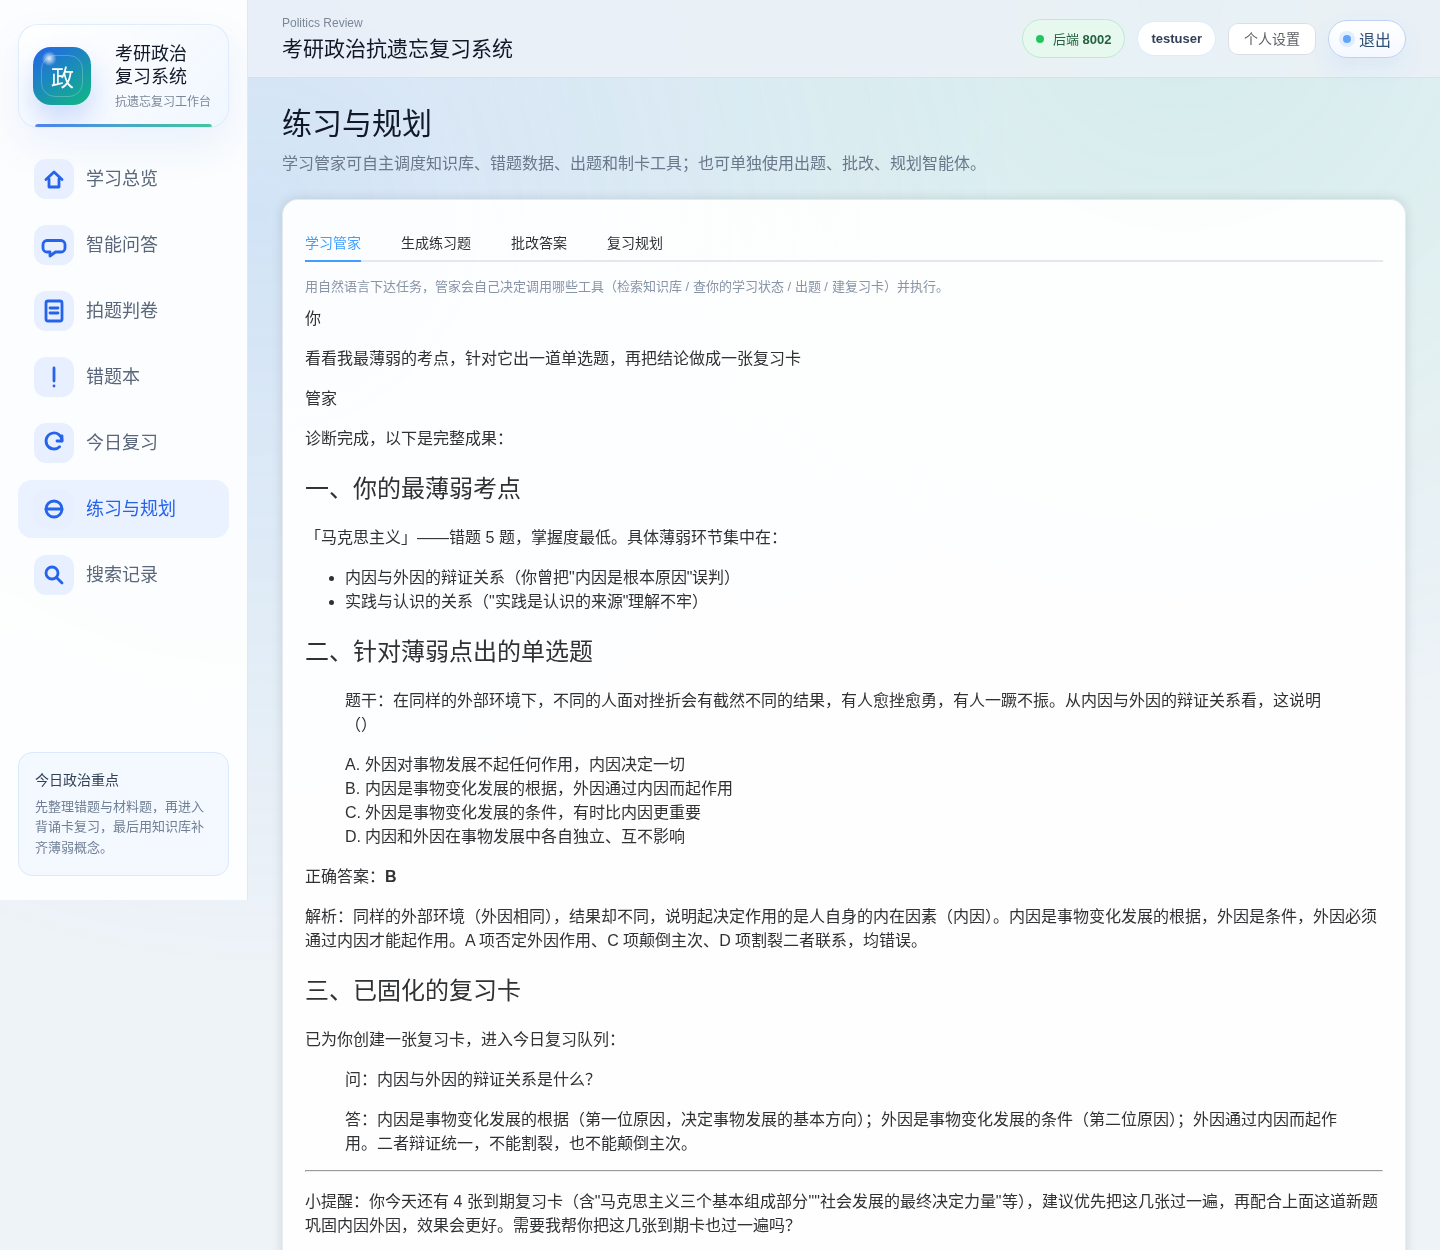
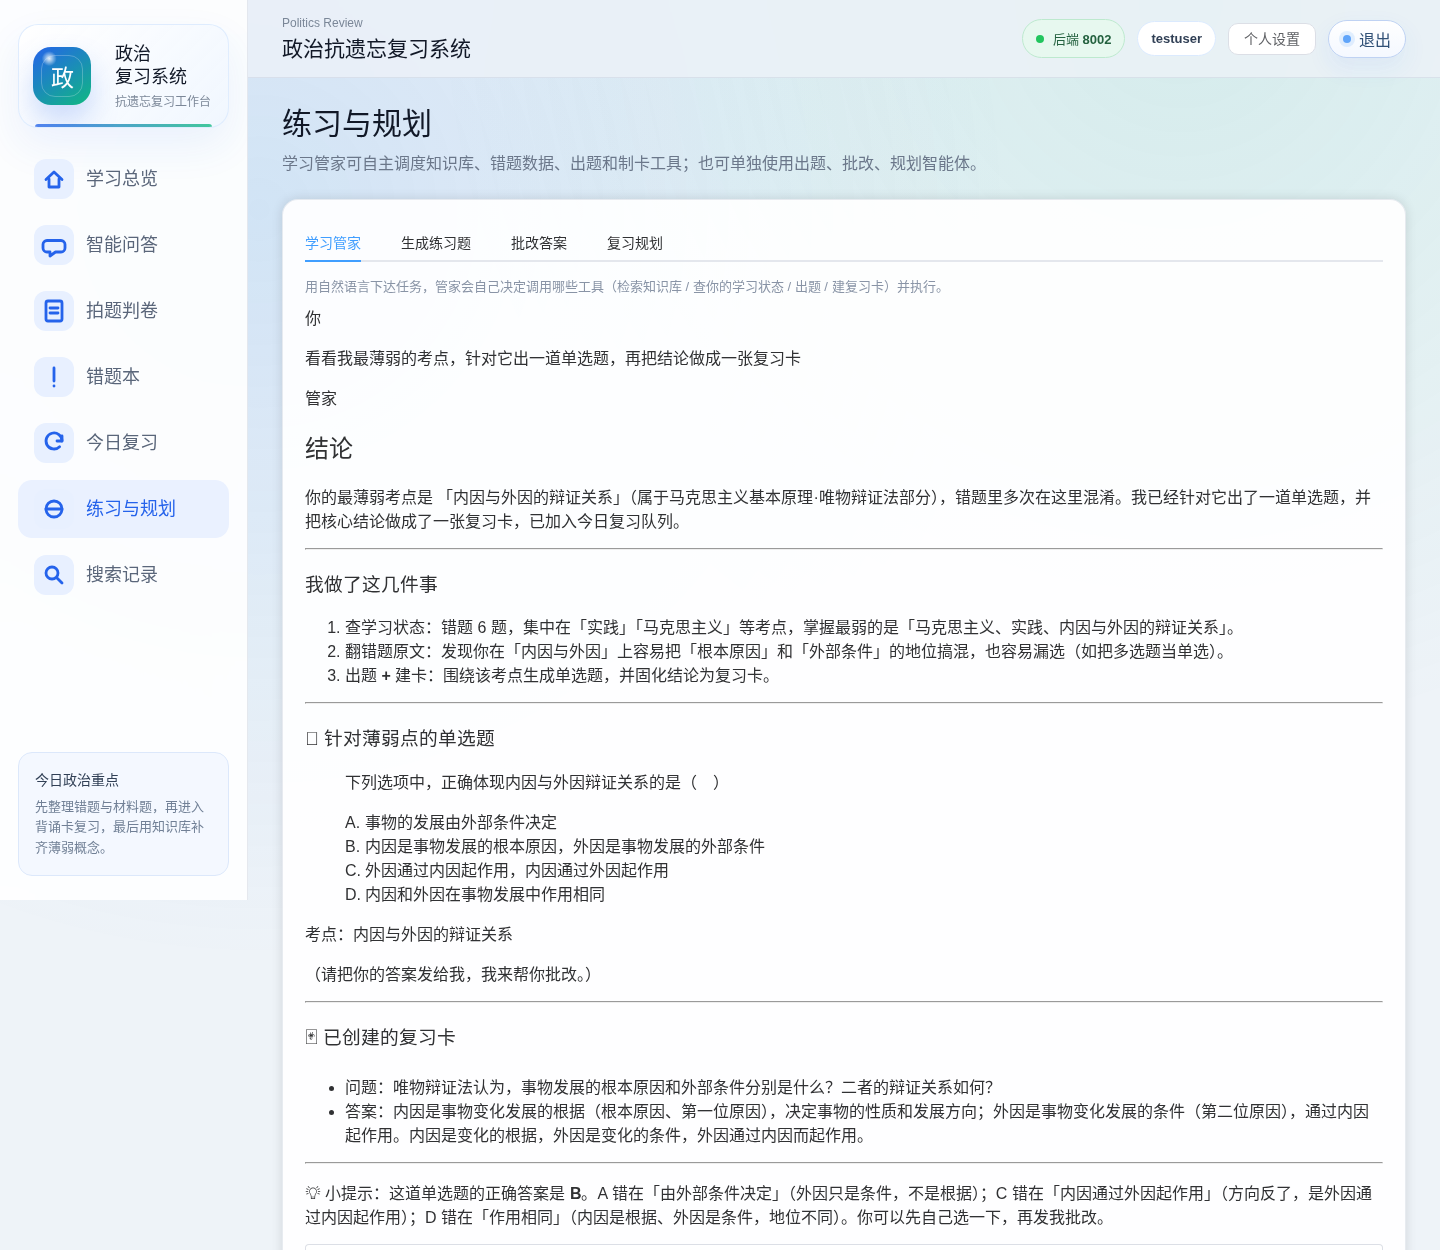
chore: 全项目去掉“考研”字样，统一为“政治复习系统”；重截界面截图
Claude-Session: https://claude.ai/code/session_017pzErrwNvfZZPzr7wG5nAd

Changed region(s): [[0.2188, 0.3432, 0.9688, 0.9984], [0.1875, 0.0312, 0.375, 0.0624], [0.0625, 0.0312, 0.125, 0.0624]]

diff --git a/frontend/src/views/Login.vue b/frontend/src/views/Login.vue
@@ -4,7 +4,7 @@
       <div class="auth-visual">
         <div class="auth-logo">政</div>
         <p class="eyebrow">Politics Review AI</p>
-        <h1>登录考研政治复习系统</h1>
+        <h1>登录政治复习系统</h1>
         <p>
           用 OCR、RAG 知识库和抗遗忘复习，把政治错题、知识点和背诵任务整理成可追踪的复习节奏。
         </p>
@@ -17,7 +17,7 @@
 
       <div class="auth-form">
         <h2>欢迎回来</h2>
-        <p>登录后进入你的考研政治学习工作台。</p>
+        <p>登录后进入你的政治学习工作台。</p>
 
         <el-form label-position="top" @submit.prevent>
           <el-form-item label="用户名">

diff --git a/frontend/src/App.vue b/frontend/src/App.vue
@@ -7,7 +7,7 @@
         <div class="brand-mark">政</div>
         <div class="brand-copy">
           <h1 class="brand-title">
-            <span>考研政治</span>
+            <span>政治</span>
             <span>复习系统</span>
           </h1>
           <p>抗遗忘复习工作台</p>
@@ -31,7 +31,7 @@
       <el-header class="topbar">
         <div>
           <p class="eyebrow">Politics Review</p>
-          <h2>考研政治抗遗忘复习系统</h2>
+          <h2>政治抗遗忘复习系统</h2>
         </div>
         <div class="topbar-actions">
           <div class="status-pill">

diff --git a/frontend/src/views/Dashboard.vue b/frontend/src/views/Dashboard.vue
@@ -4,7 +4,7 @@
       <div>
         <h1 class="page-title">学习总览</h1>
         <p class="page-subtitle">
-          把考研政治错题、知识库问答、图片识别解析和 AI 学习助手记录放在同一个复习节奏里。
+          把政治错题、知识库问答、图片识别解析和 AI 学习助手记录放在同一个复习节奏里。
         </p>
       </div>
       <el-button type="primary" @click="loadAll">刷新数据</el-button>

diff --git a/frontend/src/views/Mistakes.vue b/frontend/src/views/Mistakes.vue
@@ -391,7 +391,7 @@ function exportMistakes() {
   const url = URL.createObjectURL(blob);
   const link = document.createElement("a");
   link.href = url;
-  link.download = `考研政治错题本-${new Date().toISOString().slice(0, 10)}.md`;
+  link.download = `政治错题本-${new Date().toISOString().slice(0, 10)}.md`;
   link.click();
   URL.revokeObjectURL(url);
 }

diff --git a/frontend/src/views/Chat.vue b/frontend/src/views/Chat.vue
@@ -56,7 +56,7 @@
     </el-card>
 
     <div v-else class="empty-state">
-      输入一个考研政治概念、材料题思路或错题疑问，回答会在这里整理成可读的复习笔记。
+      输入一个政治概念、材料题思路或错题疑问，回答会在这里整理成可读的复习笔记。
     </div>
   </section>
 </template>

diff --git a/frontend/index.html b/frontend/index.html
@@ -4,7 +4,7 @@
     <meta charset="UTF-8" />
     <link rel="icon" type="image/svg+xml" href="/favicon.svg" />
     <meta name="viewport" content="width=device-width, initial-scale=1.0" />
-    <title>考研政治抗遗忘复习系统</title>
+    <title>政治抗遗忘复习系统</title>
   </head>
   <body>
     <div id="app"></div>

diff --git a/frontend/src/views/OcrUpload.vue b/frontend/src/views/OcrUpload.vue
@@ -110,7 +110,7 @@
     </el-card>
 
     <div v-if="!rawText && !uploading && !statusText" class="empty-state">
-      请先上传一张考研政治题目截图。
+      请先上传一张政治题目截图。
     </div>
   </section>
 </template>

diff --git a/backend/app/services/agents.py b/backend/app/services/agents.py
@@ -21,7 +21,7 @@ async def explainer_agent(topic: str) -> str:
 """
 
     prompt = f"""
-请深入讲解考研政治知识点：{topic}
+请深入讲解政治知识点：{topic}
 {context_block}
 输出分三个部分：
 
@@ -38,7 +38,7 @@ async def explainer_agent(topic: str) -> str:
 """
     answer = await call_qwen(
         prompt,
-        system="你是考研政治资深辅导老师。讲解要准确、有深度、成体系，目标是让考生真正理解并能应对相关考题。",
+        system="你是政治资深辅导老师。讲解要准确、有深度、成体系，目标是让考生真正理解并能应对相关考题。",
         max_tokens=1600,
         temperature=0.3,
     )
@@ -53,7 +53,7 @@ async def quiz_agent(topic: str, difficulty: int = 3, quiz_type: str = "single")
     format_block = build_quiz_format_block(quiz_type)
     quiz_label = "单选题" if quiz_type == "single" else "分析题"
     prompt = f"""
-你是考研政治出题智能体。
+你是政治出题智能体。
 请围绕主题“{topic}”生成 1 道{quiz_label}。
 
 难度为 {difficulty}/5。
@@ -94,7 +94,7 @@ async def quiz_agent(topic: str, difficulty: int = 3, quiz_type: str = "single")
         source_prompt = prompt if attempt == 0 else strict_retry_prompt
         raw_answer = await call_qwen(
             source_prompt,
-            system=f"你是考研政治出题助手。只输出 1 道{quiz_label}，全文只能有一个题型标题，不给答案，不输出其他题型、重复字母或乱码。",
+            system=f"你是政治出题助手。只输出 1 道{quiz_label}，全文只能有一个题型标题，不给答案，不输出其他题型、重复字母或乱码。",
             max_tokens=700,
             temperature=0.12 if attempt == 0 else 0.05,
         )
@@ -126,7 +126,7 @@ async def wrap_quiz_output(
     quiz_label = "单选题" if quiz_type == "single" else "分析题"
     format_block = build_quiz_format_block(quiz_type)
     prompt = f"""
-你是考研政治练习题输出包装器。
+你是政治练习题输出包装器。
 
 用户主题：{topic}
 用户选择题型：{quiz_label}
@@ -156,7 +156,7 @@ async def wrap_quiz_output(
 """
     return await call_qwen(
         prompt,
-        system=f"你是考研政治练习题格式包装助手。只输出 1 道{quiz_label}，全文只能有一个题型标题，禁止其他题型、答案、解析、E 选项和乱码。",
+        system=f"你是政治练习题格式包装助手。只输出 1 道{quiz_label}，全文只能有一个题型标题，禁止其他题型、答案、解析、E 选项和乱码。",
         max_tokens=700,
         temperature=0.04,
     )
@@ -182,7 +182,7 @@ D. ……
 
 def normalize_topic(topic: str) -> str:
     topic = re.sub(r"\s+", " ", topic or "").strip()
-    return topic[:40] or "考研政治核心知识点"
+    return topic[:40] or "政治核心知识点"
 
 
 def normalize_difficulty(difficulty: int) -> int:
@@ -226,7 +226,7 @@ def classify_politics_module(topic: str) -> str:
     if any(keyword in text for keyword in ("形势", "政策", "时政", "外交", "安全", "共同体")):
         return "形势与政策"
 
-    return "考研政治综合"
+    return "政治综合"
 
 
 def describe_quiz_difficulty(difficulty: int) -> str:
@@ -235,7 +235,7 @@ def describe_quiz_difficulty(difficulty: int) -> str:
         2: "基础理解题，考概念含义和相近概念区分，题干不要太长。",
         3: "常规应用题，考两个知识点之间的关系，接近普通选择题和简答题难度。",
         4: "提高题，加入简短材料，要求从材料中识别原理并做辨析。",
-        5: "综合题，结合材料、现实表述和多知识点关系，题干更接近考研政治分析题。",
+        5: "综合题，结合材料、现实表述和多知识点关系，题干更接近政治分析题。",
     }
     return guides.get(normalize_difficulty(difficulty), guides[3])
 
@@ -552,7 +552,7 @@ async def grader_agent(
 """
 
     prompt = f"""
-你是考研政治批改智能体。请先认真解题，再批改学生答案。
+你是政治批改智能体。请先认真解题，再批改学生答案。
 
 题目：
 {question}
@@ -582,7 +582,7 @@ async def grader_agent(
 """
     answer = await call_qwen(
         prompt,
-        system="你是考研政治批改老师。先独立解题再批改，判断必须准确、依据充分，解析要讲透。",
+        system="你是政治批改老师。先独立解题再批改，判断必须准确、依据充分，解析要讲透。",
         max_tokens=1200,
         temperature=0.0,
         thinking=True,
@@ -639,7 +639,7 @@ def clean_grade_output(text: str) -> str:
 async def review_planner_agent(mistakes_summary: str) -> str:
     topic = normalize_review_topic(mistakes_summary)
     prompt = f"""
-你是考研政治抗遗忘复习规划智能体。
+你是政治抗遗忘复习规划智能体。
 
 复习主题或错题摘要：
 {mistakes_summary}
@@ -679,7 +679,7 @@ async def review_planner_agent(mistakes_summary: str) -> str:
 """
     answer = await call_qwen(
         prompt,
-        system="你是考研政治复习规划助手。必须按“通读、深挖、巩固、背诵关键词”四个标题输出，不要输出上午下午晚上，不要重复关键词。",
+        system="你是政治复习规划助手。必须按“通读、深挖、巩固、背诵关键词”四个标题输出，不要输出上午下午晚上，不要重复关键词。",
         max_tokens=650,
         temperature=0.1,
     )
@@ -694,7 +694,7 @@ async def review_planner_agent(mistakes_summary: str) -> str:
 def normalize_review_topic(text: str) -> str:
     text = re.sub(r"\s+", " ", text or "").strip()
     text = re.sub(r"(user|assistant|system)\s*[:：]?", "", text, flags=re.IGNORECASE)
-    return text[:30] or "考研政治薄弱知识点"
+    return text[:30] or "政治薄弱知识点"
 
 
 def clean_review_plan_output(text: str) -> str:

diff --git a/backend/app/services/manager_agent.py b/backend/app/services/manager_agent.py
@@ -50,7 +50,7 @@ TOOL_SPECS = [
         "type": "function",
         "function": {
             "name": "search_knowledge",
-            "description": "在考研政治教材知识库中检索资料，返回最相关的教材段落。需要讲解概念、核实知识点时调用。",
+            "description": "在政治教材知识库中检索资料，返回最相关的教材段落。需要讲解概念、核实知识点时调用。",
             "parameters": {
                 "type": "object",
                 "properties": {
@@ -100,7 +100,7 @@ TOOL_SPECS = [
         "type": "function",
         "function": {
             "name": "explain_topic",
-            "description": "结合教材知识库，系统讲解一个考研政治知识点（是什么/怎么理解/易混与考法）。用户要求讲解、或错题分析后需要补课时调用。",
+            "description": "结合教材知识库，系统讲解一个政治知识点（是什么/怎么理解/易混与考法）。用户要求讲解、或错题分析后需要补课时调用。",
             "parameters": {
                 "type": "object",
                 "properties": {
@@ -160,7 +160,7 @@ TOOL_SPECS = [
     },
 ]
 
-SYSTEM_PROMPT = """你是考研政治复习系统的「学习管家」智能体。
+SYSTEM_PROMPT = """你是政治复习系统的「学习管家」智能体。
 
 用户会用自然语言提出学习任务（如"帮我准备明天的马原复习""检查我最薄弱的地方并出一道题"）。你要自主决定调用哪些工具、按什么顺序调用，获取真实数据后完成任务。
 
@@ -294,11 +294,11 @@ async def _execute_tool(name: str, args: dict, db: Session, user_id: int) -> str
         return _mistakes_by_topic(db, user_id, str(args.get("topic", "")), args.get("limit", 3))
 
     if name == "explain_topic":
-        return await explainer_agent(str(args.get("topic", "")) or "考研政治核心知识点")
+        return await explainer_agent(str(args.get("topic", "")) or "政治核心知识点")
 
     if name == "generate_quiz":
         return await quiz_agent(
-            str(args.get("topic", "考研政治核心知识点")),
+            str(args.get("topic", "政治核心知识点")),
             int(args.get("difficulty", 3) or 3),
             str(args.get("quiz_type", "single")),
         )

diff --git a/backend/app/routers/ocr.py b/backend/app/routers/ocr.py
@@ -61,7 +61,7 @@ def external_error(stage: str, error: Exception) -> HTTPException:
 async def solve_politics_problem(clean_text: str) -> str:
     question_type_rule = build_ocr_question_type_rule(clean_text)
     prompt = f"""
-请直接解析并解答下面的考研政治题目。
+请直接解析并解答下面的政治题目。
 
 要求：
 1. 总字数控制在 350 字以内，回答要短、准、适合背诵。
@@ -88,7 +88,7 @@ async def solve_politics_problem(clean_text: str) -> str:
 
     answer = await call_qwen(
         prompt,
-        system="你是一名考研政治老师。只按“答案、解析、关键词”三段输出，禁止输出乱码、重复字母、无关标题。",
+        system="你是一名政治老师。只按“答案、解析、关键词”三段输出，禁止输出乱码、重复字母、无关标题。",
         max_tokens=700,
         temperature=0.1,
     )
@@ -109,7 +109,7 @@ async def solve_politics_problem(clean_text: str) -> str:
 """
         answer = await call_qwen(
             repair_prompt,
-            system="你是一名考研政治老师。重新输出干净答案，只保留答案、解析、关键词三段。",
+            system="你是一名政治老师。重新输出干净答案，只保留答案、解析、关键词三段。",
             max_tokens=500,
             temperature=0.05,
         )

diff --git a/backend/app/routers/chat.py b/backend/app/routers/chat.py
@@ -15,7 +15,7 @@ from app.services.rag_service import build_context, retrieve
 
 router = APIRouter(prefix="/api/chat", tags=["chat"])
 
-CHAT_SYSTEM = "你是考研政治资深辅导老师。回答要准确、有深度、结构清晰，适合考生理解和背诵。"
+CHAT_SYSTEM = "你是政治资深辅导老师。回答要准确、有深度、结构清晰，适合考生理解和背诵。"
 
 ANSWER_FORMAT = """
 回答分三个部分，深度逐层递进，严格按下面的骨架输出（「……」处填实际内容）：
@@ -52,7 +52,7 @@ def clean_chat_answer(text: str) -> str:
 def build_prompt(question: str, context: str = "") -> str:
     if context:
         return f"""
-请基于下面的考研政治资料回答用户问题。
+请基于下面的政治资料回答用户问题。
 
 用户问题：
 {question}
@@ -67,7 +67,7 @@ def build_prompt(question: str, context: str = "") -> str:
 {ANSWER_FORMAT}
 """
     return f"""
-请回答下面的考研政治问题。
+请回答下面的政治问题。
 
 用户问题：
 {question}

diff --git a/backend/app/services/llm_service.py b/backend/app/services/llm_service.py
@@ -18,7 +18,7 @@ FORMAT_RULES = (
 )
 
 DEFAULT_SYSTEM = """
-你是一名考研政治复习助手。回答要短、准、能直接背。
+你是一名政治复习助手。回答要短、准、能直接背。
 不要输出乱码、HTML、JSON、代码块、LaTeX 公式、反斜杠转义符。
 不要复述“user / assistant / system”等聊天角色标记。
 如果题目要求固定格式，必须严格按固定格式输出，不要额外添加标题。
@@ -27,7 +27,7 @@ DEFAULT_SYSTEM = """
 
 
 STRICT_REPAIR_SYSTEM = """
-你是一名考研政治复习助手。上一次回答包含乱码或格式污染。
+你是一名政治复习助手。上一次回答包含乱码或格式污染。
 请重新回答：只输出简体中文、必要的 A/B/C/D 选项、必要标点和题目要求的固定标题。
 禁止输出孤立的 D、DD、DDD、引用编号、残缺 Markdown、重复字、代码块、HTML、JSON、聊天角色标记。
 """
